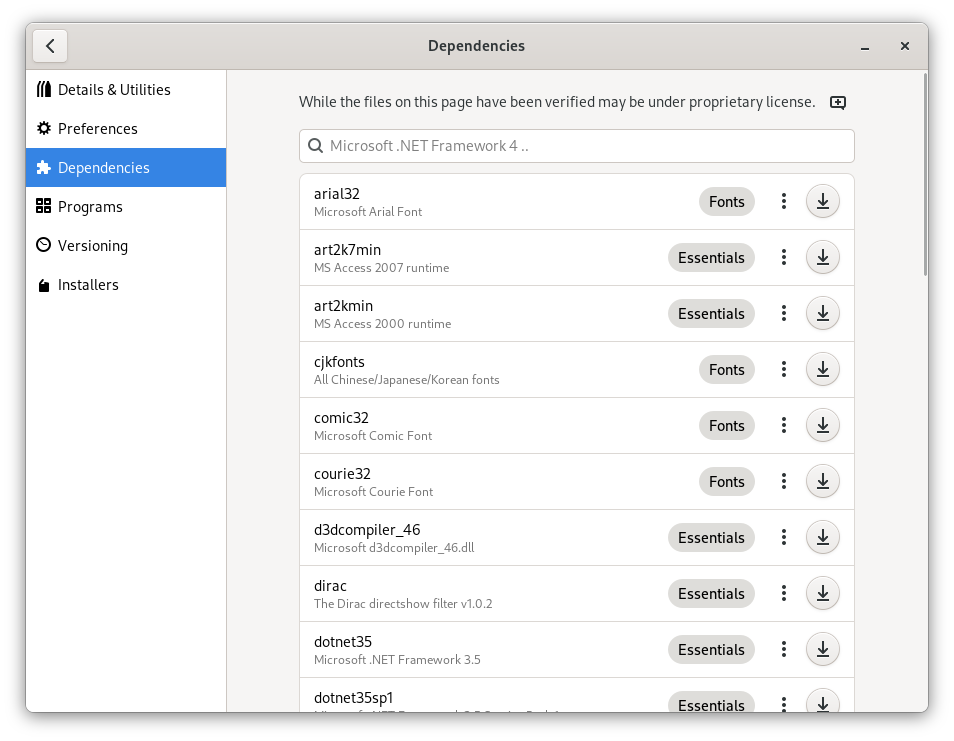
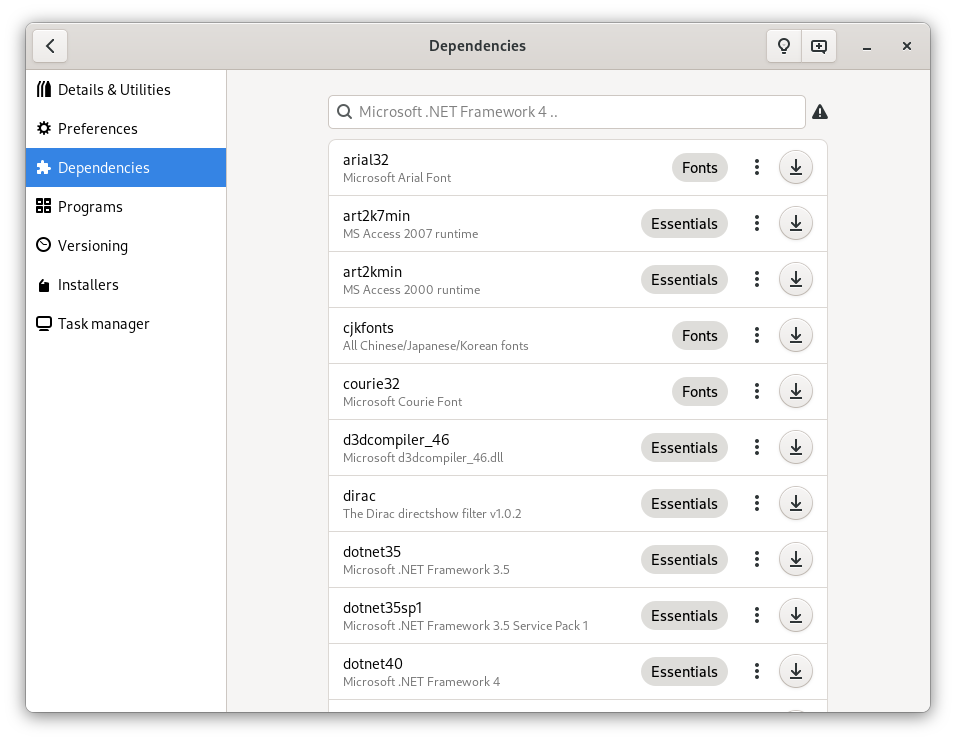
release day 2021.12.14

diff --git a/index.html b/index.html
@@ -78,6 +78,23 @@ description: Run Windows programs on Linux.
     <img alt="Bottles highly customisable" src="/uploads/bottles-dependencies-manager.png" />
 </section>
 
+<section class="hero invert green">
+  <div class="feature-display invert">
+    <div class="description">
+      <h2>Easy <u>to restore</u></h2>
+      <p>The Versioning manager allows you to easily restore a previous state
+        of your bottle.</p>
+      <p>If enabled, Bottles will automatically create a new state when you 
+        install a new dependency.</p>
+      <p>If something goes wrong, go to the Versioning section of your bottle
+        and restore the previous state.</p>
+      <a href="https://docs.usebottles.com/bottles/versioning" 
+          class="button">
+        More about</a>
+    </div>
+    <img alt="Bottles highly customisable" src="/uploads/bottles-versioning.png" />
+</section>
+
 <section class="hero">
   <div class="feature-display center">
     <div class="description">

diff --git a/assets/css/style.css b/assets/css/style.css
@@ -920,6 +920,24 @@ input[type="search"]:focus {
     background-color: #7a5d53;
 }
 
+.hero.green {
+    background: #c9e7c9;
+}
+
+.hero.green .button {
+    background-color: #5b8e5b;
+}
+
+.hero.green .button:hover {
+    background-color: #527a52;
+}
+
+.hero.green .tag,
+.hero.green .button:active,
+.hero.green .button:focus {
+    background-color: #4a6e4a;
+}
+
 #toggle-menu {
     display: none;
 }

diff --git a/_posts/2021-12-14-release-2021.12.14.md b/_posts/2021-12-14-release-2021.12.14.md
@@ -1,0 +1,142 @@
+---
+title: "Release day 2021.12.14"
+description: "Today is release day!"
+published: 2021-12-14
+layout: post
+thumb: https://raw.githubusercontent.com/bottlesdevs/data/main/releases/2021.12.14/release-day.png
+background: https://raw.githubusercontent.com/bottlesdevs/data/main/backgrounds/2021.12.14.png
+published: true
+comments: true
+is_release_day: true
+is_release_day_color: '#98173c'
+---
+
+It’s Release Day again!
+
+This release came with a lot of new features and improvements that we hope
+you’ll enjoy. The update is focused on performances, compatibility and
+introduces some most-requested features.
+
+## News
+Ok now let's get to the point. What's new in this version?
+
+### New terminal
+Normally, when you start the CMD or the winedbg tool, Bottles will
+automatically open theses tools in your system terminal or trough the
+wineconsole if running under Flatpak. The latter however, should be
+say, it's not the best experience at all, so we decided to provide a
+brand new terminal to Flatpak users, so they don't have to deal with
+wineconsole.
+
+![EasyTerm on Bottles](/uploads/easyterm.png)
+
+The new terminal is a bit more polished and user-friendly. The first
+thing you'll notice is that the terminal change color scheme based
+on the tool you're using (cyan for CMD and orange for winedbg).
+
+It's still at the start of its development and we're working on it. We are
+working on bookmarks support, to provide a faster way to execute the most
+used commands in one click. Keep in touch.
+
+### Files sandboxing
+This is an improvement for Flatpak which allows you to sandbox a file before 
+running it. This in addition to providing an additional level of security, 
+also solves a permissions problem that caused a silent crash in some 
+executables, as the runner was unable to access outside the sandbox.
+
+![Files sandboxing](/uploads/file-sandboxing.png)
+
+So when you enable this feature from the executable context menu, Bottles
+will copy the file to the bottle internal storage (times vary based on the
+file size) and run it from there. This obviously slows down the process as
+we need to move the file, so try without before.
+
+### Execute in terminal
+Sometimes you need to read the output of an executable to understand what
+is going on. Before, you had to open the terminal and run the entire Bottles
+program to get the output, or attach the winedbg utility to a running process.
+
+Now you can simply enable the "Launch with terminal" option from the executable
+context menu and Bottles will open the terminal and attach the process to it.
+
+### Versioning
+This is not actually a new feature, it was already implemented as an
+experimental feature, so you should already know about it.
+
+![Versioning](/uploads/versioning.png)
+
+This feature provide an easy way to save and restore a bottle state. 
+Previouslly, when you broke a bottle, you had to manually remove the
+edits and the changes you made to the bottle but in most cases, it was
+not possible. So now when it happens, you can try to restore the bottle
+to its previous state.
+
+### Desktop entries
+After multiple requests, it is now possible to generate the desktop entry 
+for a program directly from Bottles. Just go to the programs list, choose 
+the one we are interested in and click on "Add desktop entry" in the 
+context menu.
+
+![Desktop entries](/uploads/desktop-entry.png)
+
+Sorily, this feature is not coming for Flatpak users, due to lack of
+permissions. So if you're using Flatpak, please don't worry about this
+feature, we still have other plans for you.
+
+### UI improvements
+There are also a lot of UI improvements but only one that we really
+wanted to mention is the new Power menu, which was re-organized to be less
+cluttered and more intuitive.
+
+![Power menu](/uploads/power-menu.png)
+
+As you can see, everything concerning the uptime has been moved totally to 
+the right and the Reboot and Shutdown items have been enclosed in a submenu, 
+this is because they were previously shown with very similar icons and the 
+risk of making a mistake and clicking the wrong one was very high. 
+
+Furthermore, the management of the bottle uptime is not really useful, if
+not to simulate a system restart or to stop all running processes, for
+this reason we have kept the button to stop all processes out of the menu, 
+so that it was quick access.
+
+## All other changes
+There are a lot of other changes and improvements in this release. Below are 
+other noteworthy ones, for all the others, refer to 
+the [GiHub organization](https://github.com/bottlesdevs).
+
+  * A status page is now shown when there are no programs/states/installers
+  * The Versioning feature is now available
+  * Now you can ask Bottles to move an executable inside the sandbox before executing
+  * The "Run executable" button is now merged with its context menu
+  * The search bar in the dependencies view now also searches for descriptions
+  * Now you can generate a new Desktop entry file from the programs list (not on Flatpak)
+  * The dependencies view now use the new actions like other views
+  * Bottle power actions are now places in a dedicated menu
+  * Flatpak users now have access to a new console instead of wineconsole
+  * Logs are reformatted to be more easy to read and less verbose
+  * Power actions now provides a visual feedback
+  * Dark theme was renamed to Night mode
+  * Now it is possible to attach a terminal to an executable to easily read its output
+  * Bottles runtime is available, it extend runners compatibility with extra libraries
+  * Fixed a bug that was preventing the programs list from being updated when removing a program
+  * Fixed a bug that was causing a flickering of the operations menu when some tasks were running
+  * Fixed a bug in bottle creation that was not set the correct path when already existed
+  * Fixed a bug in bottle cloning that was not updating the bottle path
+  * Fixed a consistency issue with the terms used in the UI
+  * Fixed a bug in versioning that was storing states ID as strings instead of integers
+  * Fixed a bug that was listing the wrong states when switching between bottles
+  * Fixed a bug in dependencies installation with 32-bit bottles
+  * Fixed a bug in installers that was silently fail when a dependency was not installed
+  * Czech translations thanks to @tuzu128
+  * Spanish translations thanks to @oscfdezdz
+  * French translations thanks to @julroy67
+  * Turkish translations thanks to @ersen0
+  * Chinese (Simplified) translations thanks to @sr093906
+  * Croatian translations thanks to @milotype
+
+Thanks to all users who contributed to this release!
+
+~ Bottles' Developers
+
+<a class="button" href="/download" style="">Download</a> 2021.12.14
